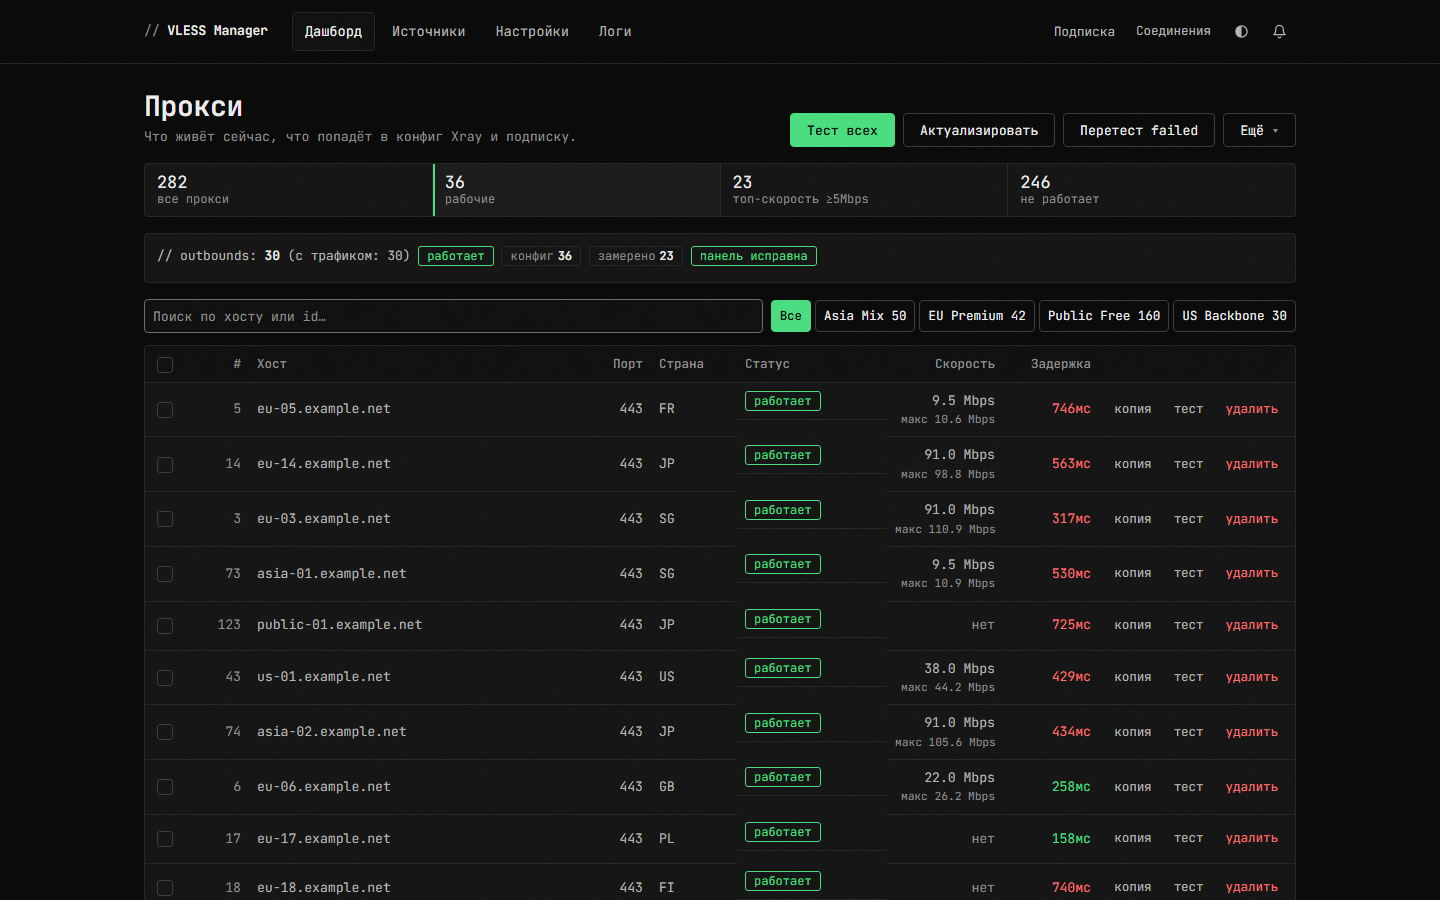
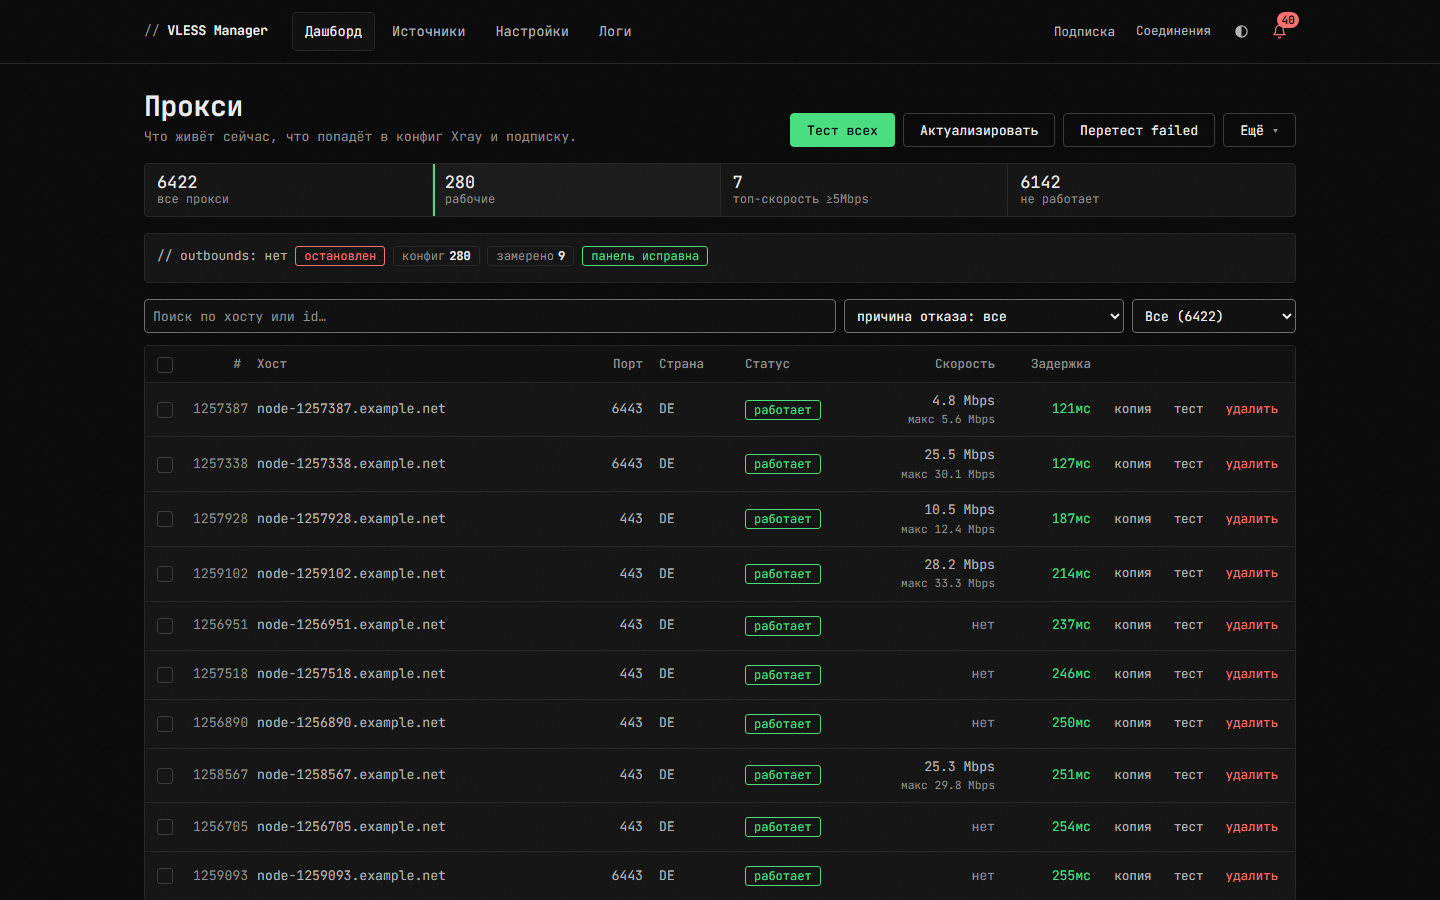
v4.2.1: restore table-cell layout for status and source actions
display:flex was set on the <td> itself in both tables, which removes the cell from table layout: row borders stopped at that column and buttons drifted. Move the flex layout into .status-inner/.src-actions-inner, align the three source actions in fixed grid columns, and refresh the README screenshots.

diff --git a/static/style.css b/static/style.css
@@ -437,6 +437,9 @@ input[type="checkbox"]:not(.chk-custom):checked::after {
 .chk-group { display: flex; gap: 12px; align-items: center; flex-wrap: wrap; }
 
 /* ─── Таблицы ─── */
+/* th/td должны оставаться table-cell. Любой display:flex/grid на самой ячейке
+   выбивает её из строки: ломаются границы, высота и выравнивание колонок.
+   Раскладка внутри ячейки — только через обёртку (.row-actions, .status-inner). */
 .table-wrap {
   background: var(--bg-card);
   border: 1px solid var(--border);
@@ -1198,7 +1201,7 @@ dialog.modal::backdrop { background: var(--overlay); }
 .desktop-table td.lat-cell,
 .desktop-table td.speed-cell { white-space: nowrap; font-variant-numeric: tabular-nums; }
 .speed-max { display: block; font-size: 0.7rem; font-weight: 400; color: var(--text-muted); }
-.desktop-table .status-cell {
+.status-inner {
   display: flex;
   flex-direction: column;
   align-items: flex-start;
@@ -1400,12 +1403,7 @@ dialog.modal::backdrop { background: var(--overlay); }
 .src-col-out { width: 112px; }
 .src-col-imp { width: 168px; }
 .src-col-val { width: 144px; }
-.src-col-act { width: 212px; }
-/* На узком десктопе (1100–1339) три действия не помещаются в широкую
-   колонку: поджимаем кнопки, чтобы «удалить» не выходило за таблицу. */
-@media (min-width: 1100px) and (max-width: 1339px) {
-  .src-actions .btn { padding: 0 4px; font-size: 0.72rem; }
-}
+.src-col-act { width: 232px; }
 .src-cards { display: flex; flex-direction: column; gap: 8px; padding: 8px; }
 @media (min-width: 1100px) { .src-cards { display: none; } }
 @media (max-width: 1099px) {
@@ -1477,8 +1475,17 @@ dialog.modal::backdrop { background: var(--overlay); }
 .v-duplicate { color: var(--text-muted); }
 .v-empty { color: var(--orange); }
 .src-reco { font-size: 0.78rem; color: var(--text-muted); margin-top: 4px; }
-.src-actions { display: flex; gap: 4px; align-items: center; justify-content: flex-end; white-space: nowrap; text-align: right; }
-.src-actions .btn { padding: 0 8px; font-size: 0.75rem; }
+.src-actions { white-space: nowrap; text-align: right; }
+/* Кнопки — во внутреннем гриде, а не flex на <td>: display:flex на ячейке
+   ломает табличную раскладку, из-за чего рвались линии строк. */
+.src-actions-inner {
+  display: grid;
+  grid-template-columns: 76px 64px 68px;
+  gap: 4px;
+  justify-content: end;
+  align-items: center;
+}
+.src-actions-inner .btn { padding: 0 4px; font-size: 0.75rem; justify-content: center; }
 .src-verdict { white-space: normal; }
 .src-measured { display: block; margin-top: 4px; font-size: 0.75rem; color: var(--text-muted); }
 .src-import-time { display: block; margin-top: 4px; font-size: 0.75rem; color: var(--text-muted); }

diff --git a/static/dashboard.js b/static/dashboard.js
@@ -541,7 +541,7 @@ function renderDesktop(proxies) {
       <td class="host-cell" title="${esc(p.host)}">${esc(p.host)}</td>
       <td class="num">${esc(p.port)}</td>
       <td>${esc(p.country || 'нет')}${securityBadge(p.security)}</td>
-      <td class="status-cell"><span class="badge ${badgeCls}" title="${testTooltip(p)}">${statusText(p.status)}</span>${errorHint(p)}</td>
+      <td class="status-cell"><div class="status-inner"><span class="badge ${badgeCls}" title="${testTooltip(p)}">${statusText(p.status)}</span>${errorHint(p)}</div></td>
       <td class="speed-cell num" title="${esc(speedTitle)}">${speedHtml}${peakHtml}</td>
       <td class="lat-cell num">${vlessHtml}</td>
       <td class="actions-cell"><div class="row-actions">

diff --git a/static/sources.js b/static/sources.js
@@ -155,7 +155,7 @@ function renderList(sources) {
         <span class="src-score">${s.score != null ? s.score : 0}</span>
         <span class="${vcls}" title="${esc(reco)}">${esc(s.verdict_label || '—')}</span>
       </td>
-      <td class="src-actions">${sourceActionsHTML(s)}</td>
+      <td class="src-actions"><div class="src-actions-inner">${sourceActionsHTML(s)}</div></td>
     </tr>`;
   }).join('');
 

diff --git a/templates/base.html b/templates/base.html
@@ -84,7 +84,7 @@
 </main>
 
 <footer class="container app-footer">
-  <span>v4.2.0</span>
+  <span>v4.2.1</span>
   <a href="https://github.com/prasx" target="_blank" rel="noopener">GitHub</a>
 </footer>
 

diff --git a/README.md b/README.md
@@ -11,7 +11,7 @@
   <img src="https://img.shields.io/badge/Xray-26.3%2B-orange" alt="Xray">
 </p>
 
-> **v4.2.0** — замер скорости с максимальным значением (Google 10MB), аккуратные таблицы, иконка репозитория и сокращённый README.
+> **v4.2.1** — таблицы: ячейки статуса и действий больше не ломают табличную раскладку, поэтому линии строк идут через всю ширину, а кнопки стоят в одних колонках. В 4.2.0: замер скорости с максимумом (Google 10MB), счётчики импорта, иконка репозитория и сокращённый README.
 
 Самостоятельная панель для VLESS-прокси. Проверяет узлы реальным запуском Xray, замеряет скорость, собирает конфиг Xray и `subscribe.txt` по одному правилу и применяет его через Xray API. Без облака и внешнего биллинга: SQLite, Flask, один процесс.
 
